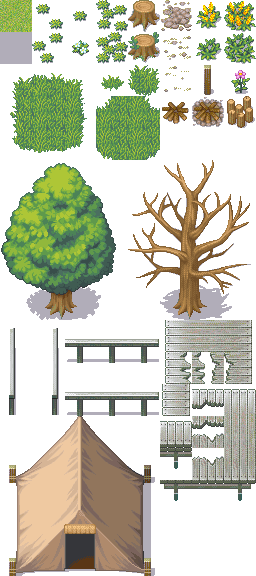
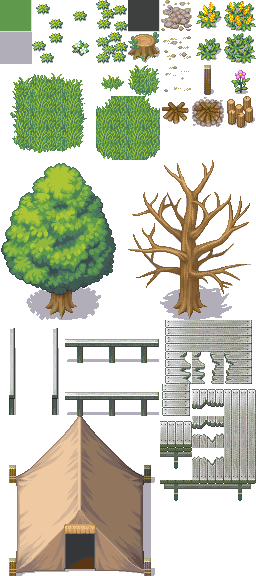
fucky wucky layer shit

Changed region(s): [[0.5, 0.0, 0.625, 0.0625], [0.0, 0.0, 0.125, 0.0625]]

diff --git a/src/main.cpp b/src/main.cpp
@@ -16,6 +16,7 @@
 #include "map/LTexture.hpp"
 #include "map/Tile.hpp"
 #include "map/Layer.hpp"
+#include "map/Map.hpp"
 #include "renderer/Presenter.hpp"
 
 //---------------------------------------------------------//
@@ -60,11 +61,16 @@ SDL_Renderer* gRenderer{nullptr};
 LTexture* playerTex;
 LTexture* backgroundTex;
 
+LTexture* backgroundTex2;
+
 Presenter* gPresenter;
 
 Tile* test_tile{nullptr};
 
 Layer* test_layer{nullptr};
+Layer* test_layer2{nullptr};
+
+Map* test_map{nullptr};
 
 int px = 0;
 int py = 0;
@@ -104,13 +110,17 @@ bool loadMedia() {
     
     playerTex = new LTexture(gPresenter->getRenderer());
     backgroundTex = new LTexture(gPresenter->getRenderer());
+    backgroundTex2 = new LTexture(gPresenter->getRenderer());
 
     bool success{true};
 
     if(success = playerTex->loadFromFile("resources/sprite.png"); !success) {
         SDL_Log("Couldnt load PNG image");
     }
-    if(success = backgroundTex->loadFromFile("resources/001-Grassland01.png"); !success) {
+    if(success = backgroundTex->loadFromFile("resources/Outside_A5.png"); !success) {
+        SDL_Log("Couldnt load PNG image");
+    }
+    if(success = backgroundTex2->loadFromFile("resources/Outside_B.png"); !success) {
         SDL_Log("Couldnt load PNG image");
     }
 
@@ -120,12 +130,17 @@ bool loadMedia() {
     playerTex->setSize(48,48);
     playerTex->setClip(downX,downY,48,48);
 
-    //
     test_layer = new Layer(backgroundTex);
+    test_layer2 = new Layer(backgroundTex2);
     
     test_layer->readTileMap("tilemaps/test.txt");
+    test_layer2->readTileMap("tilemaps/test2.txt");
 
-    //test_tile = new Tile(backgroundTex, 0, 32.f, true);
+    test_map = new Map();
+
+    test_map->addLayer(test_layer2);
+    test_map->addLayer(test_layer);
+    
 
     return success;
 
@@ -201,13 +216,15 @@ int main(int argc, char* args[]) {
 
             bool quit{false};
 
+            test_map->addLayer(test_layer);
+
             while(quit == false) {
 
                 SDL_RenderClear(gRenderer);
 
                 handleInput(&quit);
 
-                test_layer->renderTileMap();
+                test_map->renderLayers();
 
                 gPresenter->render();
 

diff --git a/src/map/Layer.cpp b/src/map/Layer.cpp
@@ -1,6 +1,4 @@
 #include "Layer.hpp"
-#include "Tile.hpp"
-#include <iostream>
 #include <fstream>
 
 //---------------------------------------------------------//
@@ -38,52 +36,58 @@ void Layer::readTileMap(std::string path) {
         char c2[271];
         int arr[15][15];
 
-
         int count = 0;
         while(f.get(c)){
+
             c2[count] = c;
             count++;
-        }
 
-        std::cout << c2 << std::endl;
+        }
 
         int i = 0;
         int j = 0;
 
         for(int k = 0; k <= sizeof(c2); k++) {
             if(c2[k] != '\n'){
-                //std::cout << i << (int)c - 48 << std::endl;
+
                 arr[i][j] = (int)c2[k] - 48 ;
                 i++;
-                //std::cout << (int)c - 48 << std::endl;
+
             } else {
+
                 j++;
                 i = 0;
+
             }
         }
-
-        
 
         for(int x = 0; x <= 15; x++){
             for(int y = 0; y <= 15; y++) {
+
                 map[x][y] = arr[x][y];
-                //std::cout << map[x][y] << std::endl;
+
             }
         }
-        //std::cout << map[1][0] << std::endl;
     }
     
-    //std::cout << tileArray[2][2]->isMoveable() << std::endl;
-    
     f.close();
+
+}
+
+void Layer::loadTileMap() {
+    for(int i = 0; i <= 15; i++) {
+        for(int j = 0; j <= 15; j++) {
+            tileArray[i][j] = new Tile(tileSheet, map[i][j], 48.f, true);
+            tileArray[i][j]->setPosition(i* 48, j * 48);
+            tileArray[i][j]->render();
+        }
+    }
 }
 
 void Layer::renderTileMap() {
     for(int i = 0; i <= 15; i++) {
         for(int j = 0; j <= 15; j++) {
-            tileArray[i][j] = new Tile(tileSheet, map[i][j], 32.f, true);
-            tileArray[i][j]->setPosition(i* 32, j * 32);
-            tileArray[i][j]->render();
+            
         }
     }
 }

diff --git a/src/map/Map.cpp b/src/map/Map.cpp
@@ -1,0 +1,25 @@
+#include "Map.hpp"
+
+//---------------------------------------------------------//
+/* Class Implementation */
+//---------------------------------------------------------//
+
+Map::Map() {
+
+}
+
+void Map::addLayer(Layer* layer) {
+
+    layers.push_front(layer);
+
+}
+
+void Map::renderLayers() {
+
+    for(Layer* layer : layers) {
+
+        layer->loadTileMap();
+
+    }
+
+}

diff --git a/src/renderer/Presenter.cpp b/src/renderer/Presenter.cpp
@@ -37,6 +37,7 @@ void Presenter::addRenderObject(LTexture* obj) {
     renderObjects.push_front(obj);
 
 }
+
 //---------------------------------------------------------//
 
 void Presenter::free() {

diff --git a/src/map/Map.hpp b/src/map/Map.hpp
@@ -29,6 +29,10 @@ class Map{
 
         Map();
 
+        void addLayer(Layer* layer);
+
+        void renderLayers();
+
     private:
 
         std::list<Layer *> layers;

diff --git a/src/map/Layer.hpp b/src/map/Layer.hpp
@@ -33,6 +33,8 @@ class Layer {
 
         void readTileMap(std::string path);
 
+        void loadTileMap();
+
         void renderTileMap();
 
     private:
